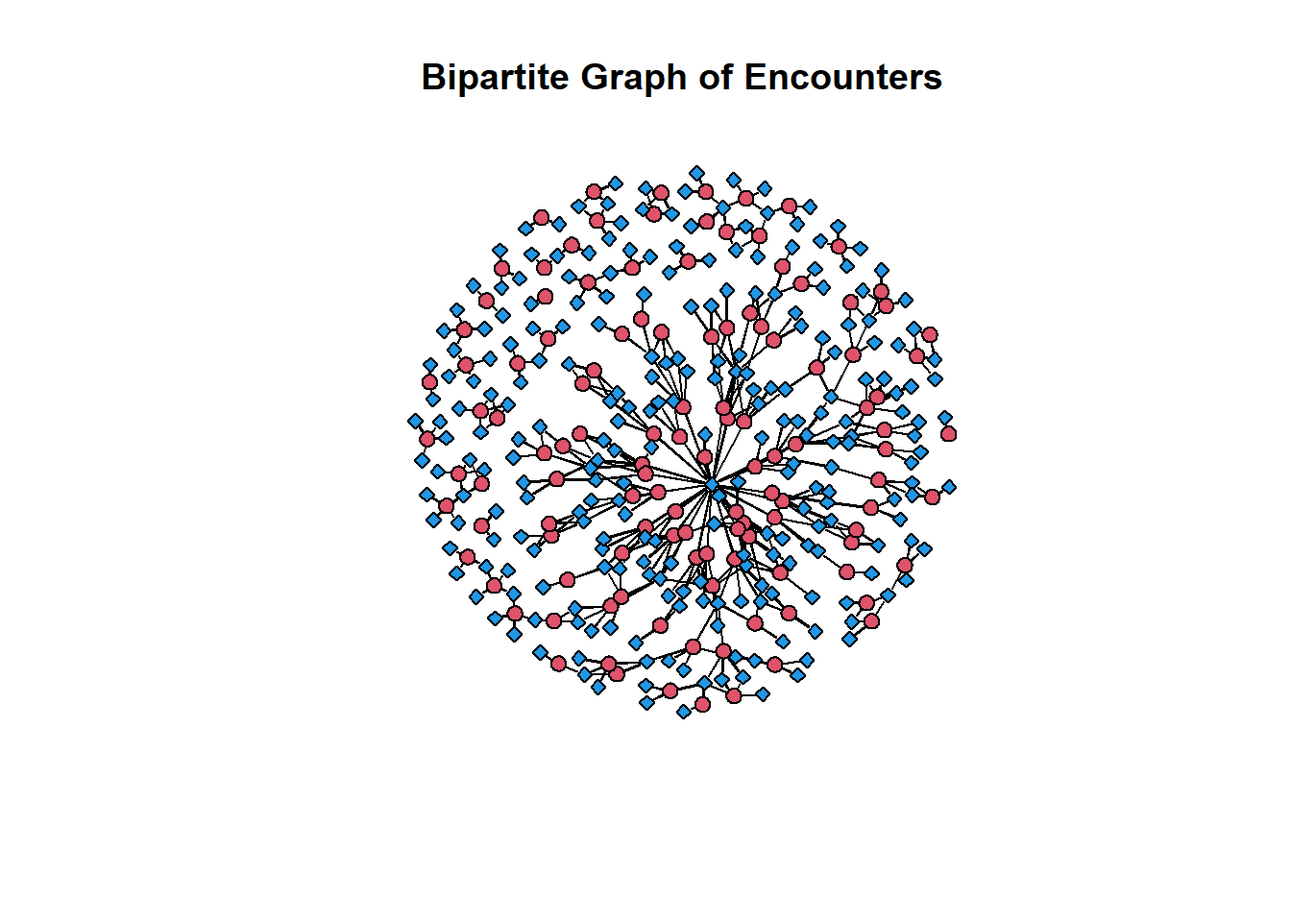
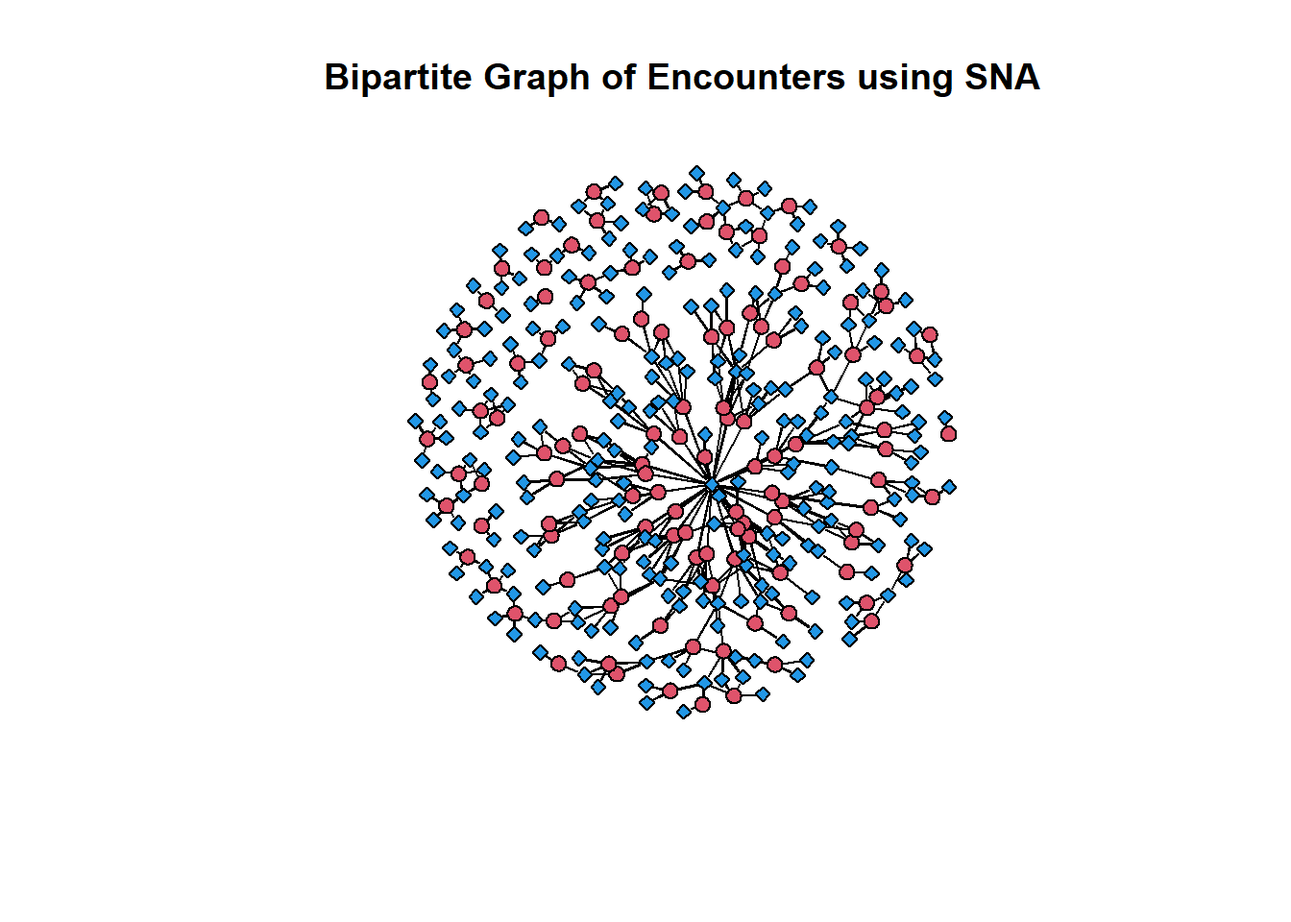
updates

Changed region(s): [[0.25, 0.0625, 0.8125, 0.125]]

diff --git a/docs/posts/Post_Two/post_2.html b/docs/posts/Post_Two/post_2.html
@@ -264,6 +264,11 @@ pre > code.sourceCode > span > a:first-child::before { text-decoration: underlin
 [5] "Arleen939 Kling921"      "Ashlie138 Williamson769"</code></pre>
 </div>
 </div>
+</section>
+<section id="graphs" class="level1">
+<h1>Graphs</h1>
+<section id="graphs-with-sna" class="level2">
+<h2 class="anchored" data-anchor-id="graphs-with-sna">Graphs with sna</h2>
 <div class="cell">
 <div class="sourceCode cell-code" id="cb9"><pre class="sourceCode r code-with-copy"><code class="sourceCode r"><span id="cb9-1"><a href="#cb9-1" aria-hidden="true" tabindex="-1"></a><span class="co"># load the sna library to get the gplot() function</span></span>
 <span id="cb9-2"><a href="#cb9-2" aria-hidden="true" tabindex="-1"></a><span class="fu">library</span>( sna )</span>
@@ -278,7 +283,7 @@ pre > code.sourceCode > span > a:first-child::before { text-decoration: underlin
 <span id="cb9-11"><a href="#cb9-11" aria-hidden="true" tabindex="-1"></a>  <span class="at">usearrows =</span> <span class="cn">FALSE</span>,                     <span class="co"># turn off the arrowheads</span></span>
 <span id="cb9-12"><a href="#cb9-12" aria-hidden="true" tabindex="-1"></a>  <span class="at">vertex.cex=</span><span class="dv">2</span>,                          <span class="co"># size the nodes     </span></span>
 <span id="cb9-13"><a href="#cb9-13" aria-hidden="true" tabindex="-1"></a>  <span class="at">label.cex=</span><span class="fl">1.2</span>,                         <span class="co"># size the labels</span></span>
-<span id="cb9-14"><a href="#cb9-14" aria-hidden="true" tabindex="-1"></a>  <span class="at">main=</span><span class="st">"Bipartite Graph of Encounters"</span>                 <span class="co"># add a title</span></span>
+<span id="cb9-14"><a href="#cb9-14" aria-hidden="true" tabindex="-1"></a>  <span class="at">main=</span><span class="st">"Bipartite Graph of Encounters using SNA"</span>                 <span class="co"># add a title</span></span>
 <span id="cb9-15"><a href="#cb9-15" aria-hidden="true" tabindex="-1"></a>)</span></code><button title="Copy to Clipboard" class="code-copy-button"><i class="bi"></i></button></pre></div>
 <div class="cell-output-display">
 <p><img src="post_2_files/figure-html/unnamed-chunk-5-1.png" class="img-fluid" width="672"></p>
@@ -290,6 +295,9 @@ pre > code.sourceCode > span > a:first-child::before { text-decoration: underlin
 <div class="cell">
 <div class="sourceCode cell-code" id="cb11"><pre class="sourceCode r code-with-copy"><code class="sourceCode r"><span id="cb11-1"><a href="#cb11-1" aria-hidden="true" tabindex="-1"></a><span class="fu">detach</span>(<span class="st">"package:sna"</span>)</span></code><button title="Copy to Clipboard" class="code-copy-button"><i class="bi"></i></button></pre></div>
 </div>
+</section>
+<section id="graphs-with-igraph" class="level2">
+<h2 class="anchored" data-anchor-id="graphs-with-igraph">Graphs with igraph</h2>
 <div class="cell">
 <div class="sourceCode cell-code" id="cb12"><pre class="sourceCode r code-with-copy"><code class="sourceCode r"><span id="cb12-1"><a href="#cb12-1" aria-hidden="true" tabindex="-1"></a>vertex_colors <span class="ot">&lt;-</span> <span class="fu">ifelse</span>(attribute_list<span class="sc">$</span>GENDER <span class="sc">==</span> <span class="st">"F"</span>, <span class="st">"blue"</span>, <span class="st">"magenta"</span>)</span>
 <span id="cb12-2"><a href="#cb12-2" aria-hidden="true" tabindex="-1"></a><span class="fu">V</span>(incidence_graph)<span class="sc">$</span>shape <span class="ot">&lt;-</span> <span class="fu">ifelse</span>(<span class="fu">V</span>(incidence_graph)<span class="sc">$</span>type, <span class="st">"square"</span>, <span class="st">"circle"</span>)</span>
@@ -308,34 +316,36 @@ pre > code.sourceCode > span > a:first-child::before { text-decoration: underlin
 <span id="cb12-15"><a href="#cb12-15" aria-hidden="true" tabindex="-1"></a></span>
 <span id="cb12-16"><a href="#cb12-16" aria-hidden="true" tabindex="-1"></a><span class="fu">E</span>(incidence_graph)<span class="sc">$</span>color <span class="ot">&lt;-</span> edge_colors</span>
 <span id="cb12-17"><a href="#cb12-17" aria-hidden="true" tabindex="-1"></a></span>
-<span id="cb12-18"><a href="#cb12-18" aria-hidden="true" tabindex="-1"></a></span>
-<span id="cb12-19"><a href="#cb12-19" aria-hidden="true" tabindex="-1"></a><span class="fu">plot</span>(incidence_graph,</span>
-<span id="cb12-20"><a href="#cb12-20" aria-hidden="true" tabindex="-1"></a>     <span class="at">layout =</span> layout.fruchterman.reingold, </span>
-<span id="cb12-21"><a href="#cb12-21" aria-hidden="true" tabindex="-1"></a>     <span class="at">vertex.label.dist =</span> <span class="dv">2</span>, </span>
-<span id="cb12-22"><a href="#cb12-22" aria-hidden="true" tabindex="-1"></a>     <span class="at">vertex.size =</span> <span class="dv">3</span>, </span>
-<span id="cb12-23"><a href="#cb12-23" aria-hidden="true" tabindex="-1"></a>     <span class="at">vertex.color =</span> vertex_colors,</span>
-<span id="cb12-24"><a href="#cb12-24" aria-hidden="true" tabindex="-1"></a>     <span class="at">edge.label =</span> <span class="cn">NA</span>,</span>
-<span id="cb12-25"><a href="#cb12-25" aria-hidden="true" tabindex="-1"></a>     <span class="at">vertex.label =</span> <span class="cn">NA</span>,</span>
-<span id="cb12-26"><a href="#cb12-26" aria-hidden="true" tabindex="-1"></a>     <span class="at">vertex.label.cex =</span> <span class="fl">0.2</span>, </span>
-<span id="cb12-27"><a href="#cb12-27" aria-hidden="true" tabindex="-1"></a>     <span class="at">main =</span> <span class="st">"Patient Provider Incidence Graph"</span>)</span>
-<span id="cb12-28"><a href="#cb12-28" aria-hidden="true" tabindex="-1"></a><span class="co"># Define legend for vertex colors</span></span>
-<span id="cb12-29"><a href="#cb12-29" aria-hidden="true" tabindex="-1"></a><span class="fu">legend</span>(<span class="st">"bottomright"</span>,</span>
-<span id="cb12-30"><a href="#cb12-30" aria-hidden="true" tabindex="-1"></a>       <span class="at">legend =</span> <span class="fu">c</span>(<span class="st">"Female"</span>, <span class="st">"Male"</span>),  <span class="co"># You can customize these labels</span></span>
-<span id="cb12-31"><a href="#cb12-31" aria-hidden="true" tabindex="-1"></a>       <span class="at">fill =</span> <span class="fu">c</span>(<span class="st">"magenta"</span>, <span class="st">"blue"</span>),   <span class="co"># Fill colors corresponding to vertex colors</span></span>
-<span id="cb12-32"><a href="#cb12-32" aria-hidden="true" tabindex="-1"></a>       <span class="at">title =</span> <span class="st">"Nodes: Gender"</span>)              <span class="co"># Legend title</span></span>
-<span id="cb12-33"><a href="#cb12-33" aria-hidden="true" tabindex="-1"></a></span>
-<span id="cb12-34"><a href="#cb12-34" aria-hidden="true" tabindex="-1"></a><span class="co"># Define legend for vertex shapes</span></span>
-<span id="cb12-35"><a href="#cb12-35" aria-hidden="true" tabindex="-1"></a><span class="fu">legend</span>(<span class="st">"topright"</span>,</span>
-<span id="cb12-36"><a href="#cb12-36" aria-hidden="true" tabindex="-1"></a>       <span class="at">legend =</span> <span class="fu">c</span>(<span class="st">"Patient"</span>, <span class="st">"Provider"</span>),  <span class="co"># You can customize these labels</span></span>
-<span id="cb12-37"><a href="#cb12-37" aria-hidden="true" tabindex="-1"></a>       <span class="at">pch =</span> <span class="fu">c</span>(<span class="dv">1</span>, <span class="dv">0</span>),                      <span class="co"># Point shapes corresponding to vertex shapes</span></span>
-<span id="cb12-38"><a href="#cb12-38" aria-hidden="true" tabindex="-1"></a>       <span class="at">title =</span> <span class="st">"Nodes: Who"</span>)                     <span class="co"># Legend title</span></span>
-<span id="cb12-39"><a href="#cb12-39" aria-hidden="true" tabindex="-1"></a></span>
-<span id="cb12-40"><a href="#cb12-40" aria-hidden="true" tabindex="-1"></a><span class="co"># Define legend for edge colors</span></span>
-<span id="cb12-41"><a href="#cb12-41" aria-hidden="true" tabindex="-1"></a><span class="fu">legend</span>(<span class="st">"topleft"</span>,</span>
-<span id="cb12-42"><a href="#cb12-42" aria-hidden="true" tabindex="-1"></a>       <span class="at">legend =</span> <span class="fu">c</span>(<span class="st">"1-4"</span>, <span class="st">"5-19"</span>, <span class="st">"20+"</span>),  <span class="co"># You can customize these labels</span></span>
-<span id="cb12-43"><a href="#cb12-43" aria-hidden="true" tabindex="-1"></a>       <span class="at">col =</span> <span class="fu">c</span>(<span class="st">"yellow"</span>, <span class="st">"lightblue"</span>, <span class="st">"red"</span>),  <span class="co"># Line colors corresponding to edge colors</span></span>
-<span id="cb12-44"><a href="#cb12-44" aria-hidden="true" tabindex="-1"></a>       <span class="at">lwd =</span> <span class="dv">2</span>,                            <span class="co"># Line width</span></span>
-<span id="cb12-45"><a href="#cb12-45" aria-hidden="true" tabindex="-1"></a>       <span class="at">title =</span> <span class="st">"Edges: # of Visits"</span>)              <span class="co"># Legend title</span></span></code><button title="Copy to Clipboard" class="code-copy-button"><i class="bi"></i></button></pre></div>
+<span id="cb12-18"><a href="#cb12-18" aria-hidden="true" tabindex="-1"></a><span class="co"># set the seed to reproduce the plot layout</span></span>
+<span id="cb12-19"><a href="#cb12-19" aria-hidden="true" tabindex="-1"></a><span class="fu">set.seed</span>( <span class="dv">235</span> )</span>
+<span id="cb12-20"><a href="#cb12-20" aria-hidden="true" tabindex="-1"></a></span>
+<span id="cb12-21"><a href="#cb12-21" aria-hidden="true" tabindex="-1"></a><span class="fu">plot</span>(incidence_graph,</span>
+<span id="cb12-22"><a href="#cb12-22" aria-hidden="true" tabindex="-1"></a>     <span class="at">layout =</span> layout.fruchterman.reingold, </span>
+<span id="cb12-23"><a href="#cb12-23" aria-hidden="true" tabindex="-1"></a>     <span class="at">vertex.label.dist =</span> <span class="dv">2</span>, </span>
+<span id="cb12-24"><a href="#cb12-24" aria-hidden="true" tabindex="-1"></a>     <span class="at">vertex.size =</span> <span class="dv">3</span>, </span>
+<span id="cb12-25"><a href="#cb12-25" aria-hidden="true" tabindex="-1"></a>     <span class="at">vertex.color =</span> vertex_colors,</span>
+<span id="cb12-26"><a href="#cb12-26" aria-hidden="true" tabindex="-1"></a>     <span class="at">edge.label =</span> <span class="cn">NA</span>,</span>
+<span id="cb12-27"><a href="#cb12-27" aria-hidden="true" tabindex="-1"></a>     <span class="at">vertex.label =</span> <span class="cn">NA</span>,</span>
+<span id="cb12-28"><a href="#cb12-28" aria-hidden="true" tabindex="-1"></a>     <span class="at">vertex.label.cex =</span> <span class="fl">0.2</span>, </span>
+<span id="cb12-29"><a href="#cb12-29" aria-hidden="true" tabindex="-1"></a>     <span class="at">main =</span> <span class="st">"Patient Provider Incidence Graph"</span>)</span>
+<span id="cb12-30"><a href="#cb12-30" aria-hidden="true" tabindex="-1"></a><span class="co"># Define legend for vertex colors</span></span>
+<span id="cb12-31"><a href="#cb12-31" aria-hidden="true" tabindex="-1"></a><span class="fu">legend</span>(<span class="st">"bottomright"</span>,</span>
+<span id="cb12-32"><a href="#cb12-32" aria-hidden="true" tabindex="-1"></a>       <span class="at">legend =</span> <span class="fu">c</span>(<span class="st">"Female"</span>, <span class="st">"Male"</span>),  <span class="co"># You can customize these labels</span></span>
+<span id="cb12-33"><a href="#cb12-33" aria-hidden="true" tabindex="-1"></a>       <span class="at">fill =</span> <span class="fu">c</span>(<span class="st">"magenta"</span>, <span class="st">"blue"</span>),   <span class="co"># Fill colors corresponding to vertex colors</span></span>
+<span id="cb12-34"><a href="#cb12-34" aria-hidden="true" tabindex="-1"></a>       <span class="at">title =</span> <span class="st">"Nodes: Gender"</span>)              <span class="co"># Legend title</span></span>
+<span id="cb12-35"><a href="#cb12-35" aria-hidden="true" tabindex="-1"></a></span>
+<span id="cb12-36"><a href="#cb12-36" aria-hidden="true" tabindex="-1"></a><span class="co"># Define legend for vertex shapes</span></span>
+<span id="cb12-37"><a href="#cb12-37" aria-hidden="true" tabindex="-1"></a><span class="fu">legend</span>(<span class="st">"topright"</span>,</span>
+<span id="cb12-38"><a href="#cb12-38" aria-hidden="true" tabindex="-1"></a>       <span class="at">legend =</span> <span class="fu">c</span>(<span class="st">"Patient"</span>, <span class="st">"Provider"</span>),  <span class="co"># You can customize these labels</span></span>
+<span id="cb12-39"><a href="#cb12-39" aria-hidden="true" tabindex="-1"></a>       <span class="at">pch =</span> <span class="fu">c</span>(<span class="dv">1</span>, <span class="dv">0</span>),                      <span class="co"># Point shapes corresponding to vertex shapes</span></span>
+<span id="cb12-40"><a href="#cb12-40" aria-hidden="true" tabindex="-1"></a>       <span class="at">title =</span> <span class="st">"Nodes: Who"</span>)                     <span class="co"># Legend title</span></span>
+<span id="cb12-41"><a href="#cb12-41" aria-hidden="true" tabindex="-1"></a></span>
+<span id="cb12-42"><a href="#cb12-42" aria-hidden="true" tabindex="-1"></a><span class="co"># Define legend for edge colors</span></span>
+<span id="cb12-43"><a href="#cb12-43" aria-hidden="true" tabindex="-1"></a><span class="fu">legend</span>(<span class="st">"topleft"</span>,</span>
+<span id="cb12-44"><a href="#cb12-44" aria-hidden="true" tabindex="-1"></a>       <span class="at">legend =</span> <span class="fu">c</span>(<span class="st">"1-4"</span>, <span class="st">"5-19"</span>, <span class="st">"20+"</span>),  <span class="co"># You can customize these labels</span></span>
+<span id="cb12-45"><a href="#cb12-45" aria-hidden="true" tabindex="-1"></a>       <span class="at">col =</span> <span class="fu">c</span>(<span class="st">"yellow"</span>, <span class="st">"lightblue"</span>, <span class="st">"red"</span>),  <span class="co"># Line colors corresponding to edge colors</span></span>
+<span id="cb12-46"><a href="#cb12-46" aria-hidden="true" tabindex="-1"></a>       <span class="at">lwd =</span> <span class="dv">2</span>,                            <span class="co"># Line width</span></span>
+<span id="cb12-47"><a href="#cb12-47" aria-hidden="true" tabindex="-1"></a>       <span class="at">title =</span> <span class="st">"Edges: # of Visits"</span>)              <span class="co"># Legend title</span></span></code><button title="Copy to Clipboard" class="code-copy-button"><i class="bi"></i></button></pre></div>
 <div class="cell-output-display">
 <p><img src="post_2_files/figure-html/unnamed-chunk-8-1.png" class="img-fluid" width="672"></p>
 </div>
@@ -349,19 +359,19 @@ pre > code.sourceCode > span > a:first-child::before { text-decoration: underlin
 <span id="cb13-6"><a href="#cb13-6" aria-hidden="true" tabindex="-1"></a>eig <span class="ot">&lt;-</span> <span class="fu">eigen_centrality</span>(incidence_graph)<span class="sc">$</span>vector</span>
 <span id="cb13-7"><a href="#cb13-7" aria-hidden="true" tabindex="-1"></a></span>
 <span id="cb13-8"><a href="#cb13-8" aria-hidden="true" tabindex="-1"></a>cent_df <span class="ot">&lt;-</span> <span class="fu">data.frame</span>(types, deg, bet, clos, eig)</span>
-<span id="cb13-9"><a href="#cb13-9" aria-hidden="true" tabindex="-1"></a><span class="fu">head</span>(cent_df[<span class="fu">order</span>(cent_df<span class="sc">$</span>deg, <span class="at">decreasing =</span> <span class="cn">TRUE</span>),], <span class="dv">10</span>)</span></code><button title="Copy to Clipboard" class="code-copy-button"><i class="bi"></i></button></pre></div>
+<span id="cb13-9"><a href="#cb13-9" aria-hidden="true" tabindex="-1"></a><span class="fu">head</span>(cent_df[<span class="fu">order</span>(cent_df<span class="sc">$</span>bet, <span class="at">decreasing =</span> <span class="cn">FALSE</span>),], <span class="dv">10</span>)</span></code><button title="Copy to Clipboard" class="code-copy-button"><i class="bi"></i></button></pre></div>
 <div class="cell-output cell-output-stdout">
-<pre><code>                           types deg        bet         clos        eig
-Ted955 Reilly981            TRUE  28 27013.6588 0.0012239902 1.00000000
-Timmy68 Nolan344           FALSE   7   885.6299 0.0007002801 0.02480592
-Trula820 Johns824          FALSE   7  6649.9824 0.0010000000 0.20635920
-Chun678 Hirthe744          FALSE   6  1404.0134 0.0009578544 0.24432907
-Corey514 Gaylord332        FALSE   6  2402.5000 0.0009578544 0.19651997
-Dennis979 Dickens475       FALSE   6  1785.4929 0.0009652510 0.22004854
-Enola75 Tromp100           FALSE   6   758.6271 0.0009560229 0.29716393
-Jacqualine965 Aufderhar910 FALSE   6  3265.0333 0.0010080645 0.22137300
-Jed345 Muller251           FALSE   6  3019.5333 0.0010080645 0.22693121
-Mamie949 Leannon79         FALSE   6   799.1374 0.0009560229 0.28361363</code></pre>
+<pre><code>                      types deg bet         clos          eig
+Morris740 Ullrich385  FALSE   1   0 1.0000000000 9.037256e-18
+Wilfred787 Robel940   FALSE   1   0 1.0000000000 5.600028e-18
+Emilio417 Barton704    TRUE   1   0 0.0007722008 3.179252e-02
+Jim478 Goyette777      TRUE   1   0 0.0007722008 3.179252e-02
+Althea11 Ankunding277  TRUE   1   0 0.0500000000 4.101856e-18
+Jerrell6 Rippin620     TRUE   1   0 0.0500000000 2.718083e-18
+Irene779 Garza151      TRUE   1   0 0.0007698229 3.100193e-02
+Booker670 Casper496    TRUE   1   0 0.0005672150 9.346803e-04
+Monte325 Parisian75    TRUE   1   0 0.0007782101 3.312594e-02
+Dion244 Sanford861     TRUE   1   0 0.0005977286 2.337439e-03</code></pre>
 </div>
 </div>
 <div class="cell">
@@ -399,19 +409,56 @@ Mamie949 Leannon79         FALSE   6   799.1374 0.0009560229 0.28361363</code></
 <p><img src="post_2_files/figure-html/unnamed-chunk-10-1.png" class="img-fluid" width="672"></p>
 </div>
 </div>
+<p>Here we can see there is one Provider that sees the most patients, with degree centrality = 28. The next largest degree centrality are in the 5 to 7 range and the majority of those nodes are patients.</p>
 <div class="cell">
-<div class="sourceCode cell-code" id="cb16"><pre class="sourceCode r code-with-copy"><code class="sourceCode r"><span id="cb16-1"><a href="#cb16-1" aria-hidden="true" tabindex="-1"></a>triads_incidence<span class="ot">&lt;-</span>igraph<span class="sc">::</span><span class="fu">triad_census</span>(incidence_graph)</span></code><button title="Copy to Clipboard" class="code-copy-button"><i class="bi"></i></button></pre></div>
+<div class="sourceCode cell-code" id="cb16"><pre class="sourceCode r code-with-copy"><code class="sourceCode r"><span id="cb16-1"><a href="#cb16-1" aria-hidden="true" tabindex="-1"></a><span class="fu">V</span>(incidence_graph)<span class="sc">$</span>size <span class="ot">&lt;-</span> <span class="fu">closeness</span>(incidence_graph)</span>
+<span id="cb16-2"><a href="#cb16-2" aria-hidden="true" tabindex="-1"></a></span>
+<span id="cb16-3"><a href="#cb16-3" aria-hidden="true" tabindex="-1"></a><span class="co"># set the seed to reproduce the plot layout</span></span>
+<span id="cb16-4"><a href="#cb16-4" aria-hidden="true" tabindex="-1"></a><span class="fu">set.seed</span>( <span class="dv">235</span> )</span>
+<span id="cb16-5"><a href="#cb16-5" aria-hidden="true" tabindex="-1"></a></span>
+<span id="cb16-6"><a href="#cb16-6" aria-hidden="true" tabindex="-1"></a><span class="fu">plot</span>(incidence_graph, </span>
+<span id="cb16-7"><a href="#cb16-7" aria-hidden="true" tabindex="-1"></a>     <span class="at">layout =</span> layout.fruchterman.reingold, </span>
+<span id="cb16-8"><a href="#cb16-8" aria-hidden="true" tabindex="-1"></a>     <span class="at">vertex.color =</span> vertex_colors,</span>
+<span id="cb16-9"><a href="#cb16-9" aria-hidden="true" tabindex="-1"></a>     <span class="at">edge.color =</span> <span class="st">"gray"</span>,</span>
+<span id="cb16-10"><a href="#cb16-10" aria-hidden="true" tabindex="-1"></a>     <span class="at">edge.label =</span> <span class="cn">NA</span>,</span>
+<span id="cb16-11"><a href="#cb16-11" aria-hidden="true" tabindex="-1"></a>     <span class="at">vertex.label =</span> <span class="cn">NA</span>,</span>
+<span id="cb16-12"><a href="#cb16-12" aria-hidden="true" tabindex="-1"></a>     <span class="at">main =</span> <span class="st">"Patient Provider Incidence Graph with Closeness Information"</span>)</span>
+<span id="cb16-13"><a href="#cb16-13" aria-hidden="true" tabindex="-1"></a><span class="co"># Define legend for vertex colors</span></span>
+<span id="cb16-14"><a href="#cb16-14" aria-hidden="true" tabindex="-1"></a><span class="fu">legend</span>(<span class="st">"bottomright"</span>,</span>
+<span id="cb16-15"><a href="#cb16-15" aria-hidden="true" tabindex="-1"></a>       <span class="at">legend =</span> <span class="fu">c</span>(<span class="st">"Female"</span>, <span class="st">"Male"</span>),  <span class="co"># You can customize these labels</span></span>
+<span id="cb16-16"><a href="#cb16-16" aria-hidden="true" tabindex="-1"></a>       <span class="at">fill =</span> <span class="fu">c</span>(<span class="st">"magenta"</span>, <span class="st">"blue"</span>),   <span class="co"># Fill colors corresponding to vertex colors</span></span>
+<span id="cb16-17"><a href="#cb16-17" aria-hidden="true" tabindex="-1"></a>       <span class="at">title =</span> <span class="st">"Nodes: Gender"</span>)              <span class="co"># Legend title</span></span>
+<span id="cb16-18"><a href="#cb16-18" aria-hidden="true" tabindex="-1"></a></span>
+<span id="cb16-19"><a href="#cb16-19" aria-hidden="true" tabindex="-1"></a><span class="co"># Define legend for vertex shapes</span></span>
+<span id="cb16-20"><a href="#cb16-20" aria-hidden="true" tabindex="-1"></a><span class="fu">legend</span>(<span class="st">"topright"</span>,</span>
+<span id="cb16-21"><a href="#cb16-21" aria-hidden="true" tabindex="-1"></a>       <span class="at">legend =</span> <span class="fu">c</span>(<span class="st">"Patient"</span>, <span class="st">"Provider"</span>),  <span class="co"># You can customize these labels</span></span>
+<span id="cb16-22"><a href="#cb16-22" aria-hidden="true" tabindex="-1"></a>       <span class="at">pch =</span> <span class="fu">c</span>(<span class="dv">1</span>, <span class="dv">0</span>),                      <span class="co"># Point shapes corresponding to vertex shapes</span></span>
+<span id="cb16-23"><a href="#cb16-23" aria-hidden="true" tabindex="-1"></a>       <span class="at">title =</span> <span class="st">"Nodes: Who"</span>)                     <span class="co"># Legend title</span></span>
+<span id="cb16-24"><a href="#cb16-24" aria-hidden="true" tabindex="-1"></a></span>
+<span id="cb16-25"><a href="#cb16-25" aria-hidden="true" tabindex="-1"></a><span class="co"># Define legend for edge colors</span></span>
+<span id="cb16-26"><a href="#cb16-26" aria-hidden="true" tabindex="-1"></a><span class="fu">legend</span>(<span class="st">"topleft"</span>, </span>
+<span id="cb16-27"><a href="#cb16-27" aria-hidden="true" tabindex="-1"></a>       <span class="at">legend =</span> <span class="st">"Vertex Size"</span>, </span>
+<span id="cb16-28"><a href="#cb16-28" aria-hidden="true" tabindex="-1"></a>       <span class="at">pch =</span> <span class="dv">1</span>, </span>
+<span id="cb16-29"><a href="#cb16-29" aria-hidden="true" tabindex="-1"></a>       <span class="at">pt.cex =</span> <span class="fu">seq</span>(<span class="fl">0.5</span>, <span class="dv">3</span>, <span class="at">length.out =</span> <span class="dv">5</span>), </span>
+<span id="cb16-30"><a href="#cb16-30" aria-hidden="true" tabindex="-1"></a>       <span class="at">title =</span> <span class="st">"Closeness"</span>)</span></code><button title="Copy to Clipboard" class="code-copy-button"><i class="bi"></i></button></pre></div>
+<div class="cell-output-display">
+<p><img src="post_2_files/figure-html/unnamed-chunk-11-1.png" class="img-fluid" width="672"></p>
+</div>
+</div>
+<p>Here we see two of the dyads on the outer right side of this incidence graph have the largest closeness score. This is because their network is complete (they are both connected to one another).</p>
+<div class="cell">
+<div class="sourceCode cell-code" id="cb17"><pre class="sourceCode r code-with-copy"><code class="sourceCode r"><span id="cb17-1"><a href="#cb17-1" aria-hidden="true" tabindex="-1"></a>triads_incidence<span class="ot">&lt;-</span>igraph<span class="sc">::</span><span class="fu">triad_census</span>(incidence_graph)</span></code><button title="Copy to Clipboard" class="code-copy-button"><i class="bi"></i></button></pre></div>
 <div class="cell-output cell-output-stderr">
 <pre><code>Warning in igraph::triad_census(incidence_graph): At
 vendor/cigraph/src/misc/motifs.c:1140 : Triad census called on an undirected
 graph. All connections will be treated as mutual.</code></pre>
 </div>
-<div class="sourceCode cell-code" id="cb18"><pre class="sourceCode r code-with-copy"><code class="sourceCode r"><span id="cb18-1"><a href="#cb18-1" aria-hidden="true" tabindex="-1"></a>triads_incidence</span></code><button title="Copy to Clipboard" class="code-copy-button"><i class="bi"></i></button></pre></div>
+<div class="sourceCode cell-code" id="cb19"><pre class="sourceCode r code-with-copy"><code class="sourceCode r"><span id="cb19-1"><a href="#cb19-1" aria-hidden="true" tabindex="-1"></a>triads_incidence</span></code><button title="Copy to Clipboard" class="code-copy-button"><i class="bi"></i></button></pre></div>
 <div class="cell-output cell-output-stdout">
 <pre><code> [1] 8487860       0  159964       0       0       0       0       0       0
 [10]       0    1300       0       0       0       0       0</code></pre>
 </div>
-<div class="sourceCode cell-code" id="cb20"><pre class="sourceCode r code-with-copy"><code class="sourceCode r"><span id="cb20-1"><a href="#cb20-1" aria-hidden="true" tabindex="-1"></a>igraph<span class="sc">::</span><span class="fu">dyad.census</span>(incidence_graph)</span></code><button title="Copy to Clipboard" class="code-copy-button"><i class="bi"></i></button></pre></div>
+<div class="sourceCode cell-code" id="cb21"><pre class="sourceCode r code-with-copy"><code class="sourceCode r"><span id="cb21-1"><a href="#cb21-1" aria-hidden="true" tabindex="-1"></a>igraph<span class="sc">::</span><span class="fu">dyad.census</span>(incidence_graph)</span></code><button title="Copy to Clipboard" class="code-copy-button"><i class="bi"></i></button></pre></div>
 <div class="cell-output cell-output-stderr">
 <pre><code>Warning: `dyad.census()` was deprecated in igraph 2.0.0.
 ℹ Please use `dyad_census()` instead.</code></pre>
@@ -429,15 +476,15 @@ $asym
 $null
 [1] 69314</code></pre>
 </div>
-<div class="sourceCode cell-code" id="cb24"><pre class="sourceCode r code-with-copy"><code class="sourceCode r"><span id="cb24-1"><a href="#cb24-1" aria-hidden="true" tabindex="-1"></a><span class="fu">transitivity</span>(incidence_graph)</span></code><button title="Copy to Clipboard" class="code-copy-button"><i class="bi"></i></button></pre></div>
+<div class="sourceCode cell-code" id="cb25"><pre class="sourceCode r code-with-copy"><code class="sourceCode r"><span id="cb25-1"><a href="#cb25-1" aria-hidden="true" tabindex="-1"></a><span class="fu">transitivity</span>(incidence_graph)</span></code><button title="Copy to Clipboard" class="code-copy-button"><i class="bi"></i></button></pre></div>
 <div class="cell-output cell-output-stdout">
 <pre><code>[1] 0</code></pre>
 </div>
-<div class="sourceCode cell-code" id="cb26"><pre class="sourceCode r code-with-copy"><code class="sourceCode r"><span id="cb26-1"><a href="#cb26-1" aria-hidden="true" tabindex="-1"></a><span class="fu">transitivity</span>(incidence_graph, <span class="at">type =</span> <span class="st">"global"</span>)</span></code><button title="Copy to Clipboard" class="code-copy-button"><i class="bi"></i></button></pre></div>
+<div class="sourceCode cell-code" id="cb27"><pre class="sourceCode r code-with-copy"><code class="sourceCode r"><span id="cb27-1"><a href="#cb27-1" aria-hidden="true" tabindex="-1"></a><span class="fu">transitivity</span>(incidence_graph, <span class="at">type =</span> <span class="st">"global"</span>)</span></code><button title="Copy to Clipboard" class="code-copy-button"><i class="bi"></i></button></pre></div>
 <div class="cell-output cell-output-stdout">
 <pre><code>[1] 0</code></pre>
 </div>
-<div class="sourceCode cell-code" id="cb28"><pre class="sourceCode r code-with-copy"><code class="sourceCode r"><span id="cb28-1"><a href="#cb28-1" aria-hidden="true" tabindex="-1"></a><span class="fu">average.path.length</span>(incidence_graph)</span></code><button title="Copy to Clipboard" class="code-copy-button"><i class="bi"></i></button></pre></div>
+<div class="sourceCode cell-code" id="cb29"><pre class="sourceCode r code-with-copy"><code class="sourceCode r"><span id="cb29-1"><a href="#cb29-1" aria-hidden="true" tabindex="-1"></a><span class="fu">average.path.length</span>(incidence_graph)</span></code><button title="Copy to Clipboard" class="code-copy-button"><i class="bi"></i></button></pre></div>
 <div class="cell-output cell-output-stderr">
 <pre><code>Warning: `average.path.length()` was deprecated in igraph 2.0.0.
 ℹ Please use `mean_distance()` instead.</code></pre>
@@ -449,15 +496,15 @@ $null
 <p>Component Structure and Membership</p>
 <p>First, let’s look at the network component structure. This gives a list with: membership by node, size of each component, and the total number of components.</p>
 <div class="cell">
-<div class="sourceCode cell-code" id="cb31"><pre class="sourceCode r code-with-copy"><code class="sourceCode r"><span id="cb31-1"><a href="#cb31-1" aria-hidden="true" tabindex="-1"></a><span class="fu">names</span>(igraph<span class="sc">::</span><span class="fu">components</span>(incidence_graph))</span></code><button title="Copy to Clipboard" class="code-copy-button"><i class="bi"></i></button></pre></div>
+<div class="sourceCode cell-code" id="cb32"><pre class="sourceCode r code-with-copy"><code class="sourceCode r"><span id="cb32-1"><a href="#cb32-1" aria-hidden="true" tabindex="-1"></a><span class="fu">names</span>(igraph<span class="sc">::</span><span class="fu">components</span>(incidence_graph))</span></code><button title="Copy to Clipboard" class="code-copy-button"><i class="bi"></i></button></pre></div>
 <div class="cell-output cell-output-stdout">
 <pre><code>[1] "membership" "csize"      "no"        </code></pre>
 </div>
-<div class="sourceCode cell-code" id="cb33"><pre class="sourceCode r code-with-copy"><code class="sourceCode r"><span id="cb33-1"><a href="#cb33-1" aria-hidden="true" tabindex="-1"></a>igraph<span class="sc">::</span><span class="fu">components</span>(incidence_graph)<span class="sc">$</span>no <span class="co"># number of components</span></span></code><button title="Copy to Clipboard" class="code-copy-button"><i class="bi"></i></button></pre></div>
+<div class="sourceCode cell-code" id="cb34"><pre class="sourceCode r code-with-copy"><code class="sourceCode r"><span id="cb34-1"><a href="#cb34-1" aria-hidden="true" tabindex="-1"></a>igraph<span class="sc">::</span><span class="fu">components</span>(incidence_graph)<span class="sc">$</span>no <span class="co"># number of components</span></span></code><button title="Copy to Clipboard" class="code-copy-button"><i class="bi"></i></button></pre></div>
 <div class="cell-output cell-output-stdout">
 <pre><code>[1] 22</code></pre>
 </div>
-<div class="sourceCode cell-code" id="cb35"><pre class="sourceCode r code-with-copy"><code class="sourceCode r"><span id="cb35-1"><a href="#cb35-1" aria-hidden="true" tabindex="-1"></a>igraph<span class="sc">::</span><span class="fu">components</span>(incidence_graph)<span class="sc">$</span>csize <span class="co">#Size of each component</span></span></code><button title="Copy to Clipboard" class="code-copy-button"><i class="bi"></i></button></pre></div>
+<div class="sourceCode cell-code" id="cb36"><pre class="sourceCode r code-with-copy"><code class="sourceCode r"><span id="cb36-1"><a href="#cb36-1" aria-hidden="true" tabindex="-1"></a>igraph<span class="sc">::</span><span class="fu">components</span>(incidence_graph)<span class="sc">$</span>csize <span class="co">#Size of each component</span></span></code><button title="Copy to Clipboard" class="code-copy-button"><i class="bi"></i></button></pre></div>
 <div class="cell-output cell-output-stdout">
 <pre><code> [1] 249   8  18   4   6  10   3   5   3   4   5   9   6   7   2   3   5  10   7
 [20]   3   5   2</code></pre>
@@ -465,6 +512,7 @@ $null
 </div>
 
 
+</section>
 </section>
 
 </main> <!-- /main -->

diff --git a/docs/index.html b/docs/index.html
@@ -170,7 +170,7 @@ ul.task-list li input[type="checkbox"] {
 
 <div class="quarto-listing quarto-listing-container-default" id="listing-listing">
 <div class="list quarto-listing-default">
-<div class="quarto-post image-right" data-index="0" data-categories="code,analysis" data-listing-date-sort="1713672000000" data-listing-file-modified-sort="1713735486539" data-listing-date-modified-sort="NaN" data-listing-reading-time-sort="6">
+<div class="quarto-post image-right" data-index="0" data-categories="code,analysis" data-listing-date-sort="1713672000000" data-listing-file-modified-sort="1713736732263" data-listing-date-modified-sort="NaN" data-listing-reading-time-sort="8">
 <div class="thumbnail">
 <p><a href="./posts/Post_Two/post_2.html"> <p class="card-img-top"><img src="posts\Post_Two\post_2_files\figure-html\unnamed-chunk-5-1.png"  class="thumbnail-image card-img"/></p> </a></p>
 </div>
